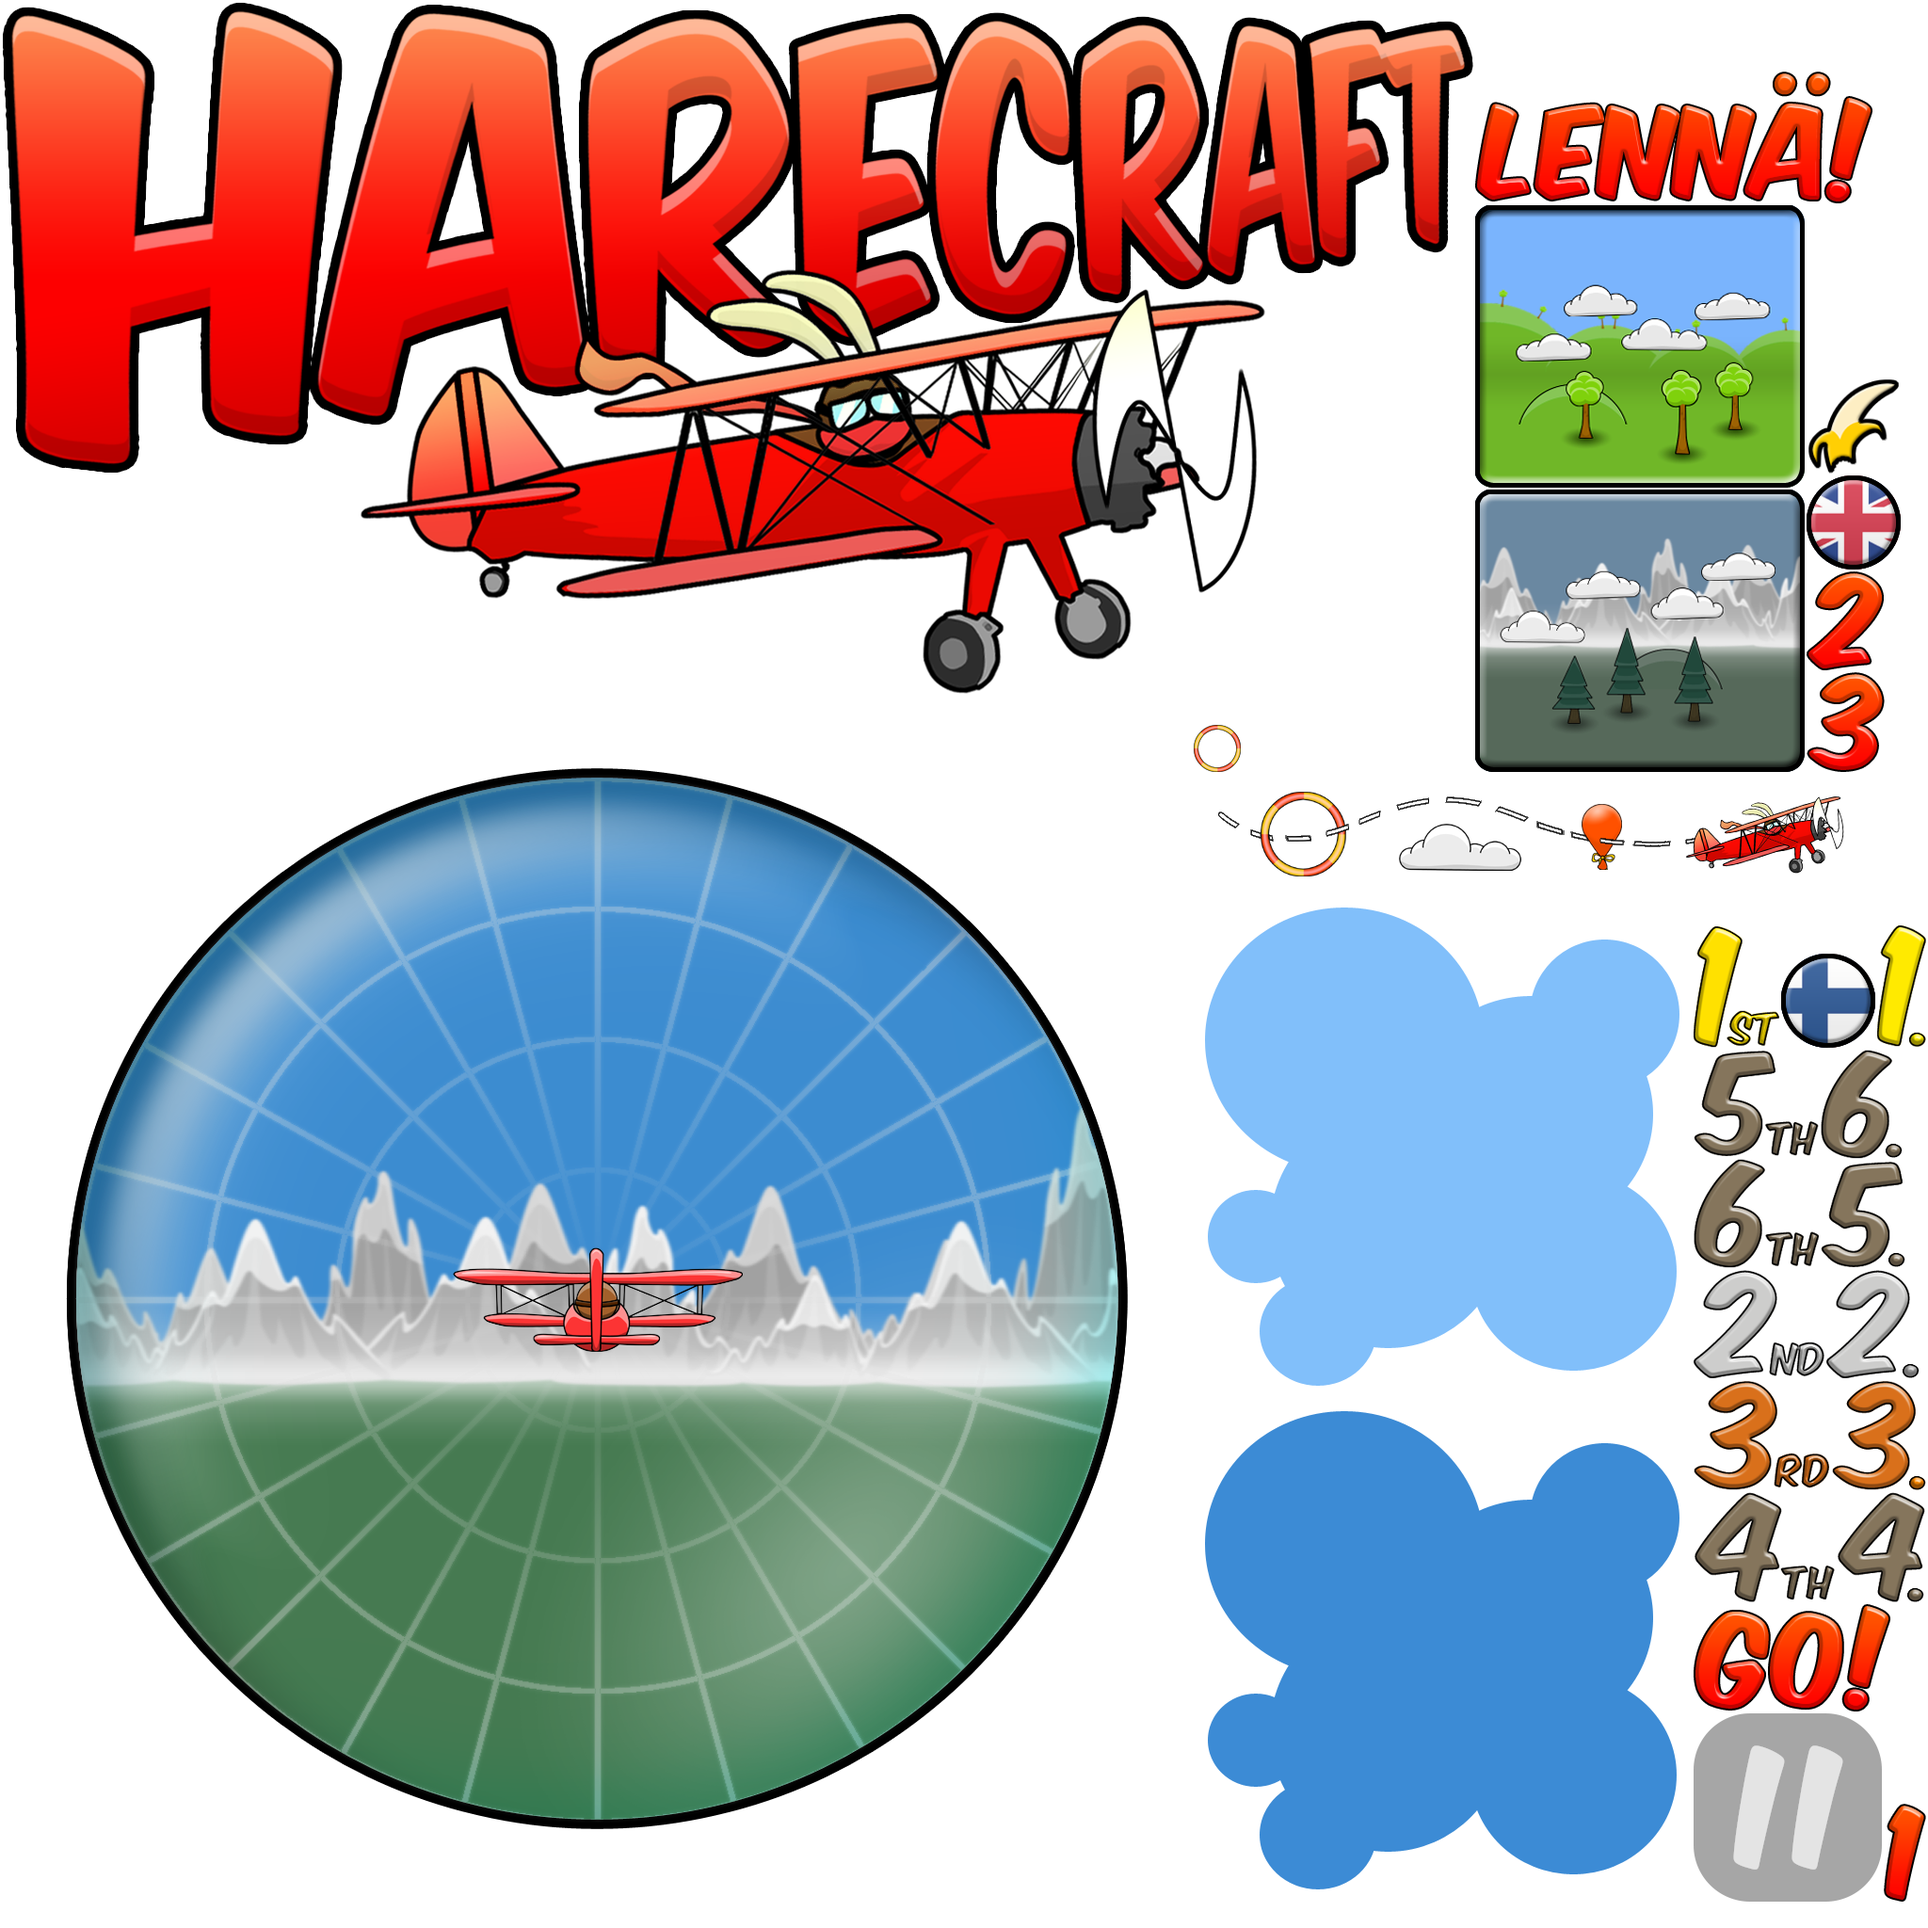
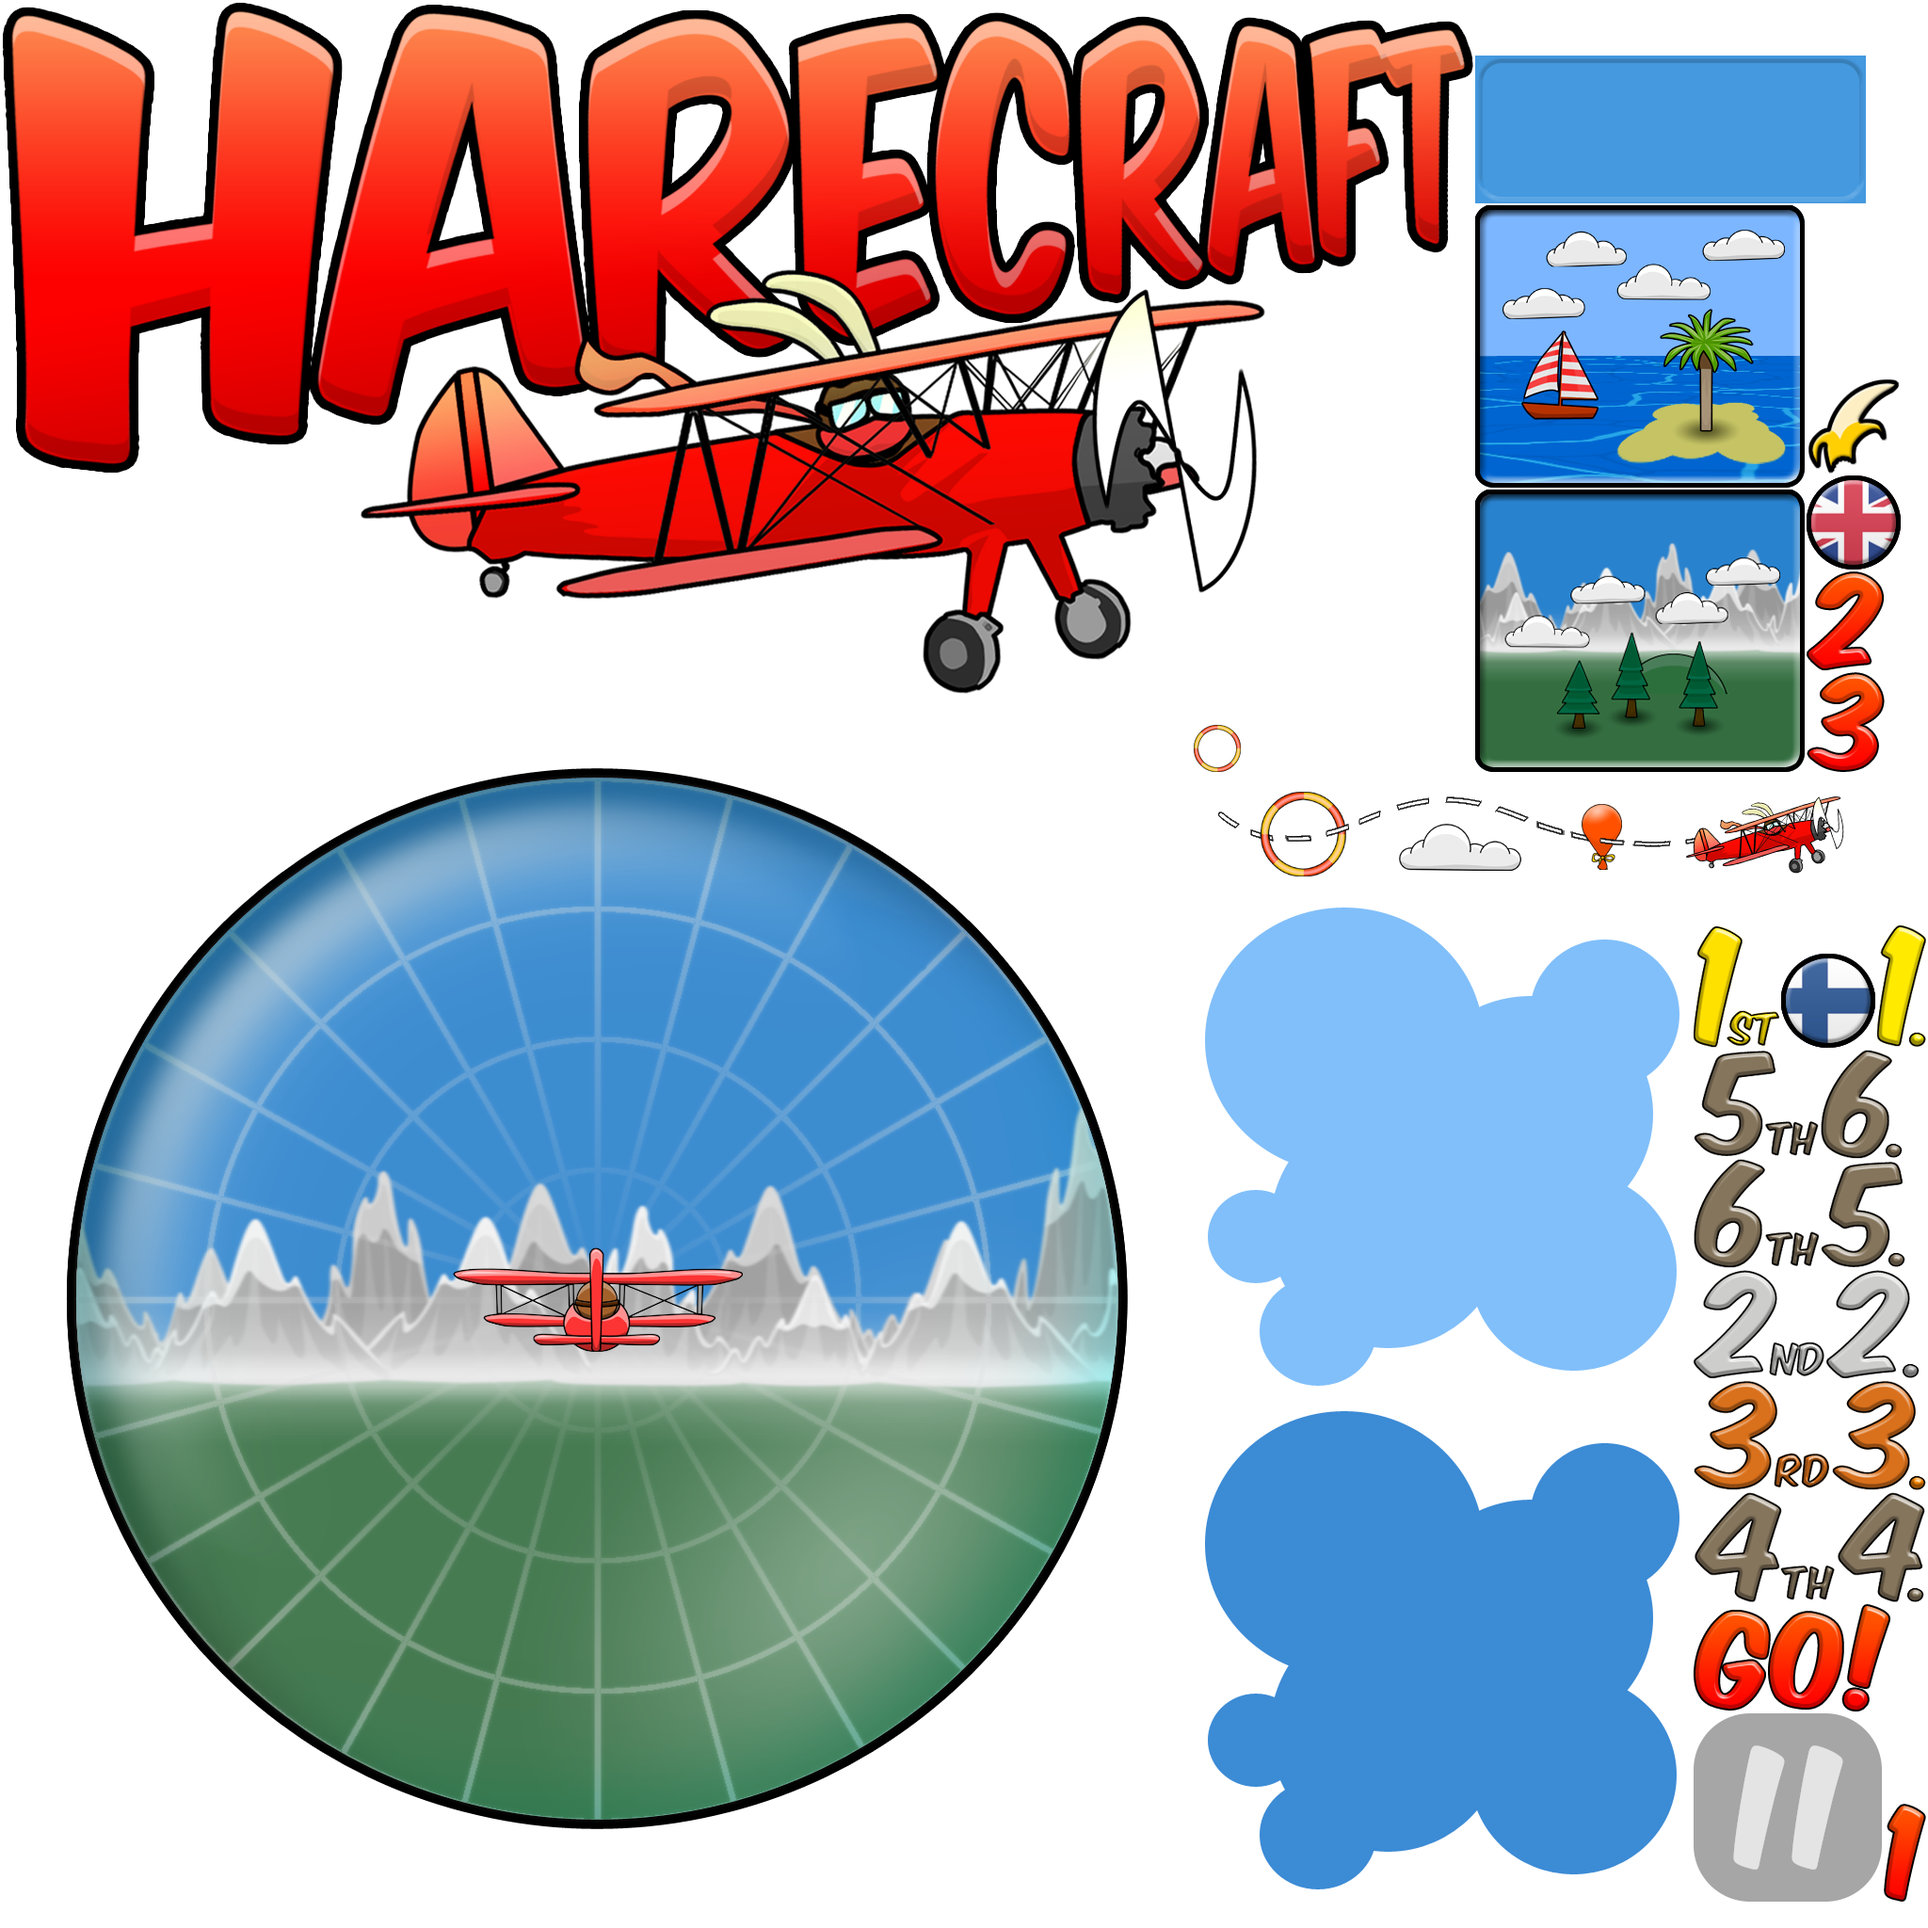
update LOLOLOL

Changed region(s): [[0.75, 0.0312, 0.9688, 0.4062]]

diff --git a/core/src/fi/tamk/tiko/harecraft/LevelSelectMenu.java b/core/src/fi/tamk/tiko/harecraft/LevelSelectMenu.java
@@ -29,6 +29,8 @@ import static fi.tamk.tiko.harecraft.GameMain.fbo;
 import static fi.tamk.tiko.harecraft.GameMain.musicVolume;
 import static fi.tamk.tiko.harecraft.GameMain.sBatch;
 import static fi.tamk.tiko.harecraft.GameMain.texture;
+import static fi.tamk.tiko.harecraft.GameScreen.SCREEN_HEIGHT;
+import static fi.tamk.tiko.harecraft.GameScreen.SCREEN_WIDTH;
 
 /**
  * Created by musta on 29.4.2018.
@@ -45,6 +47,7 @@ public class LevelSelectMenu extends ScreenAdapter {
     int[] top3Score = new int[3];
     Table highScoreTable = new Table();
     Preferences profilesData;
+    TextureRegion highscoreList = Assets.texR_highscoreList;
 
     Boolean mainMenu = false;
     Boolean startGame = false;
@@ -78,7 +81,7 @@ public class LevelSelectMenu extends ScreenAdapter {
         selectedLevelNumber = profilesData.getInteger(ProfileInfo.selectedPlayerProfile +"LastLevel", 1);
 
         makeHighScores();
-        highScoreTable.setPosition(240,630);
+        highScoreTable.setPosition(1000,630);
 
         LevelButton levelOneButton = new LevelButton(Assets.texR_stage1, Assets.texR_stage1_pressed, 1);
         levelOneButton.setPosition(240 -levelOneButton.getWidth()/2,220);
@@ -90,7 +93,7 @@ public class LevelSelectMenu extends ScreenAdapter {
         levelThreeButton.setPosition(1040 -levelThreeButton.getWidth()/2,220);
 
         InstructionsBox instructionsBox = new InstructionsBox();
-        instructionsBox.setPosition(320 + 140, 610);
+        instructionsBox.setPosition(50, 610);
 
         TextButton.TextButtonStyle style = new TextButton.TextButtonStyle(
                 Assets.skin_menu.getDrawable("button"),
@@ -182,7 +185,7 @@ public class LevelSelectMenu extends ScreenAdapter {
         durationLabel.setPosition(640 -durationLabel.getWidth()/2, 120);
 
         Label instructionsLabel1 = new Label(localizationBundle.get("instructionText1"), instructionStyle);
-        instructionsLabel1.setPosition(830 -instructionsLabel1.getWidth()/2,585);
+        instructionsLabel1.setPosition(115,565);
 
         //Label instructionsLabel2 = new Label(localizationBundle.get("instructionText2"), instructionStyle);
         //instructionsLabel2.setPosition(800 -instructionsLabel2.getWidth()/2, 565);
@@ -193,7 +196,7 @@ public class LevelSelectMenu extends ScreenAdapter {
         );
 
         Label topPilotsLabel = new Label(localizationBundle.get("top3pilots"), style2);
-        topPilotsLabel.setPosition(230 -topPilotsLabel.getWidth()/2,710);
+        topPilotsLabel.setPosition(875,710);
 
         Label minLabel = new Label("Min", instructionStyle);
         minLabel.setPosition(640 - 250 ,120);
@@ -251,6 +254,9 @@ public class LevelSelectMenu extends ScreenAdapter {
         fbo.begin();
             Gdx.gl.glClearColor(68f/255f, 153f/255f, 223f/255f, 1f);
             Gdx.gl.glClear(GL20.GL_COLOR_BUFFER_BIT);
+            sBatch.begin();
+            sBatch.draw(highscoreList,800f, SCREEN_HEIGHT/1.455f);
+            sBatch.end();
             stage.draw();
         fbo.end();
         renderToTexture();

diff --git a/core/src/fi/tamk/tiko/harecraft/WorldBuilder.java b/core/src/fi/tamk/tiko/harecraft/WorldBuilder.java
@@ -42,7 +42,7 @@ public class WorldBuilder {
     float clouds_LDownTimer = 1f;
     float clouds_RUpTimer = 1f;
     float clouds_RDownTimer = 1f;
-    float boatsTimer = 5f;
+    float boatsTimer = 2f;
     float islands_LTimer = 5f;
     float islands_RTimer = 5f;
 
@@ -141,8 +141,10 @@ public class WorldBuilder {
             addTrees();
         }
         else if(world instanceof WorldSea) {
-            addBoat();
-            if(player.distance < end - 375f || player.distance > end - 250f) addIsland();
+            if(player.distance < end - 375f || player.distance > end - 250f) {
+                addBoat();
+                addIsland();
+            }
         }
     }
 
@@ -177,13 +179,13 @@ public class WorldBuilder {
 
     public void removeBoats() {
         if(!world.boats.isEmpty()) {
-            if(!world.islands_L.isEmpty() && world.boats.get(world.boats.size() - 1).position.dst(world.islands_L.get(world.islands_L.size() - 1).position) < world.islands_L.get(world.islands_L.size() - 1).width
-                    || !world.islands_R.isEmpty() && world.boats.get(world.boats.size() - 1).position.dst(world.islands_R.get(world.islands_R.size() - 1).position) < world.islands_R.get(world.islands_R.size() - 1).width) {
+            if(!world.islands_L.isEmpty() && world.boats.get(world.boats.size() - 1).position.dst(world.islands_L.get(world.islands_L.size() - 1).position) < world.islands_L.get(world.islands_L.size() - 1).decal.getWidth()/2f
+                    || !world.islands_R.isEmpty() && world.boats.get(world.boats.size() - 1).position.dst(world.islands_R.get(world.islands_R.size() - 1).position) < world.islands_R.get(world.islands_R.size() - 1).decal.getWidth()/2f) {
 
                 Boat boat = world.boats.get(world.boats.size() - 1);
                 world.boats.remove(boat);
                 world.boatPool.free(boat);
-                boat_RemoveTimer = 0.5f;
+                boat_RemoveTimer = 0.05f;
 
                 System.out.println("BOAT REMOVED!!!!");
             }
@@ -200,12 +202,12 @@ public class WorldBuilder {
         if(boat_RemoveTimer == 0) {
             if (world.boats.isEmpty() || world.boats.get(world.boats.size() - 1).stateTime >= boatsTimer) {
                 if (gameStateTime >= boatsTimer) {
-                    x = MathUtils.random(-150f, 150f);
+                    x = MathUtils.random(-140f, 140f);
                     y = groundLevel;
                     Boat boat = world.boatPool.obtain();
                     boat.init(x, y, 350f);
                     world.boats.add(boat);
-                    boatsTimer = MathUtils.random(0.5f, 8f - global_Multiplier * 0.5f);
+                    boatsTimer = MathUtils.random(0.15f, 4f - global_Multiplier * 0.35f);
                 }
             }
         }

diff --git a/core/src/fi/tamk/tiko/harecraft/Assets.java b/core/src/fi/tamk/tiko/harecraft/Assets.java
@@ -111,6 +111,7 @@ public class Assets {
     static TextureRegion texR_adjusting;
     static TextureRegion texR_asettaa;
     static TextureRegion texR_pause;
+    static TextureRegion texR_highscoreList;
 
     static TextureAtlas atlas_menu_plane;
     static TextureAtlas atlas_planes;
@@ -258,6 +259,7 @@ public class Assets {
         texR_lighthouse = loadAtlasTextureRegion(atlas_objects, "lighthouse");
         texR_palmtree = loadAtlasTextureRegion(atlas_objects, "palmtree");
         texR_boat = loadAtlasTextureRegion(atlas_objects, "boat");
+        texR_highscoreList = loadAtlasTextureRegion(atlas_1, "highscorelist");
 
         //SPRITES
         sprites_menu_plane = atlas_menu_plane.createSprites();

diff --git a/core/src/fi/tamk/tiko/harecraft/Pilot.java b/core/src/fi/tamk/tiko/harecraft/Pilot.java
@@ -333,8 +333,6 @@ class Player extends Pilot {
         //pfx_wind_trail_left.getEmitters().get(1).getAngle().setHigh(-MathUtils.atan2(direction.y, direction.x)*(float)(180f/Math.PI));
 
 
-        System.out.println(getRotationAverage());
-
         if(getRotationAverage() < -0.6f) {
             pfx_wind_trail_left.getEmitters().get(0).getTransparency().setHigh(Math.abs(getRotationAverage() +0.6f));
             pfx_wind_trail_left.getEmitters().get(1).getTransparency().setHigh(Math.abs(getRotationAverage() +0.6f));

diff --git a/core/src/fi/tamk/tiko/harecraft/WorldObjectsSea.java b/core/src/fi/tamk/tiko/harecraft/WorldObjectsSea.java
@@ -32,6 +32,7 @@ class Boat extends GameObject implements Pool.Poolable{
     Vector3 up = new Vector3(0f,1f,0f);
     public Boat() {
         TextureRegion textureRegion = Assets.texR_boat;
+        if(MathUtils.random(0,1) == 0) textureRegion = Assets.flip(textureRegion);
 
         width = textureRegion.getRegionWidth()/25f;
         height = textureRegion.getRegionHeight()/25f;
